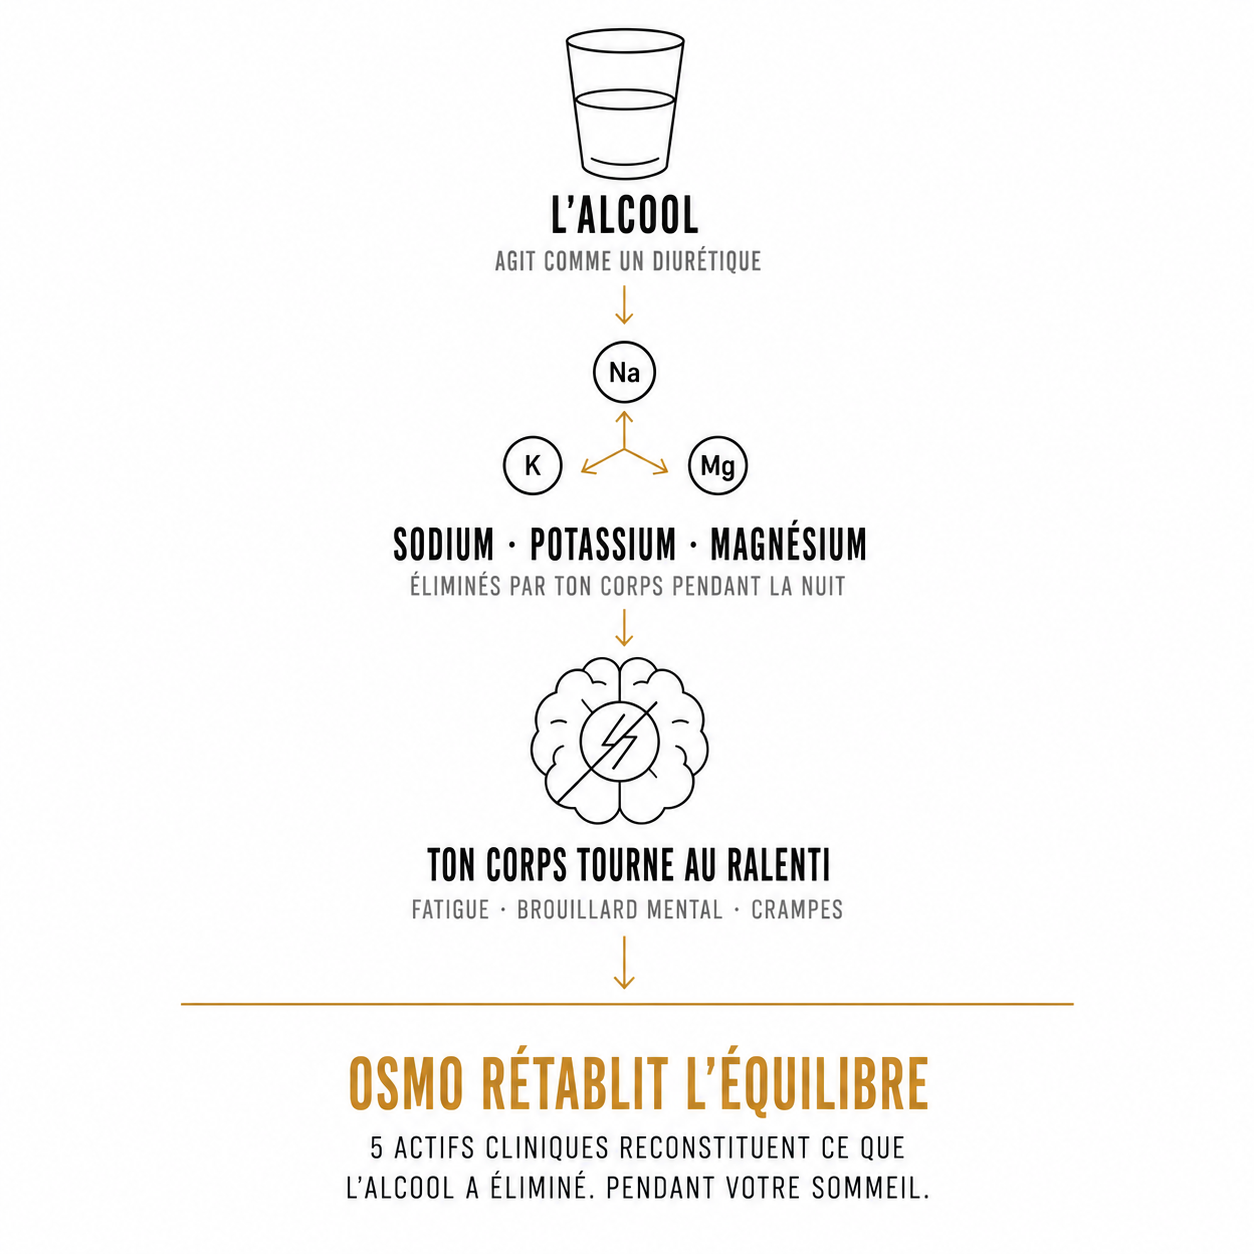
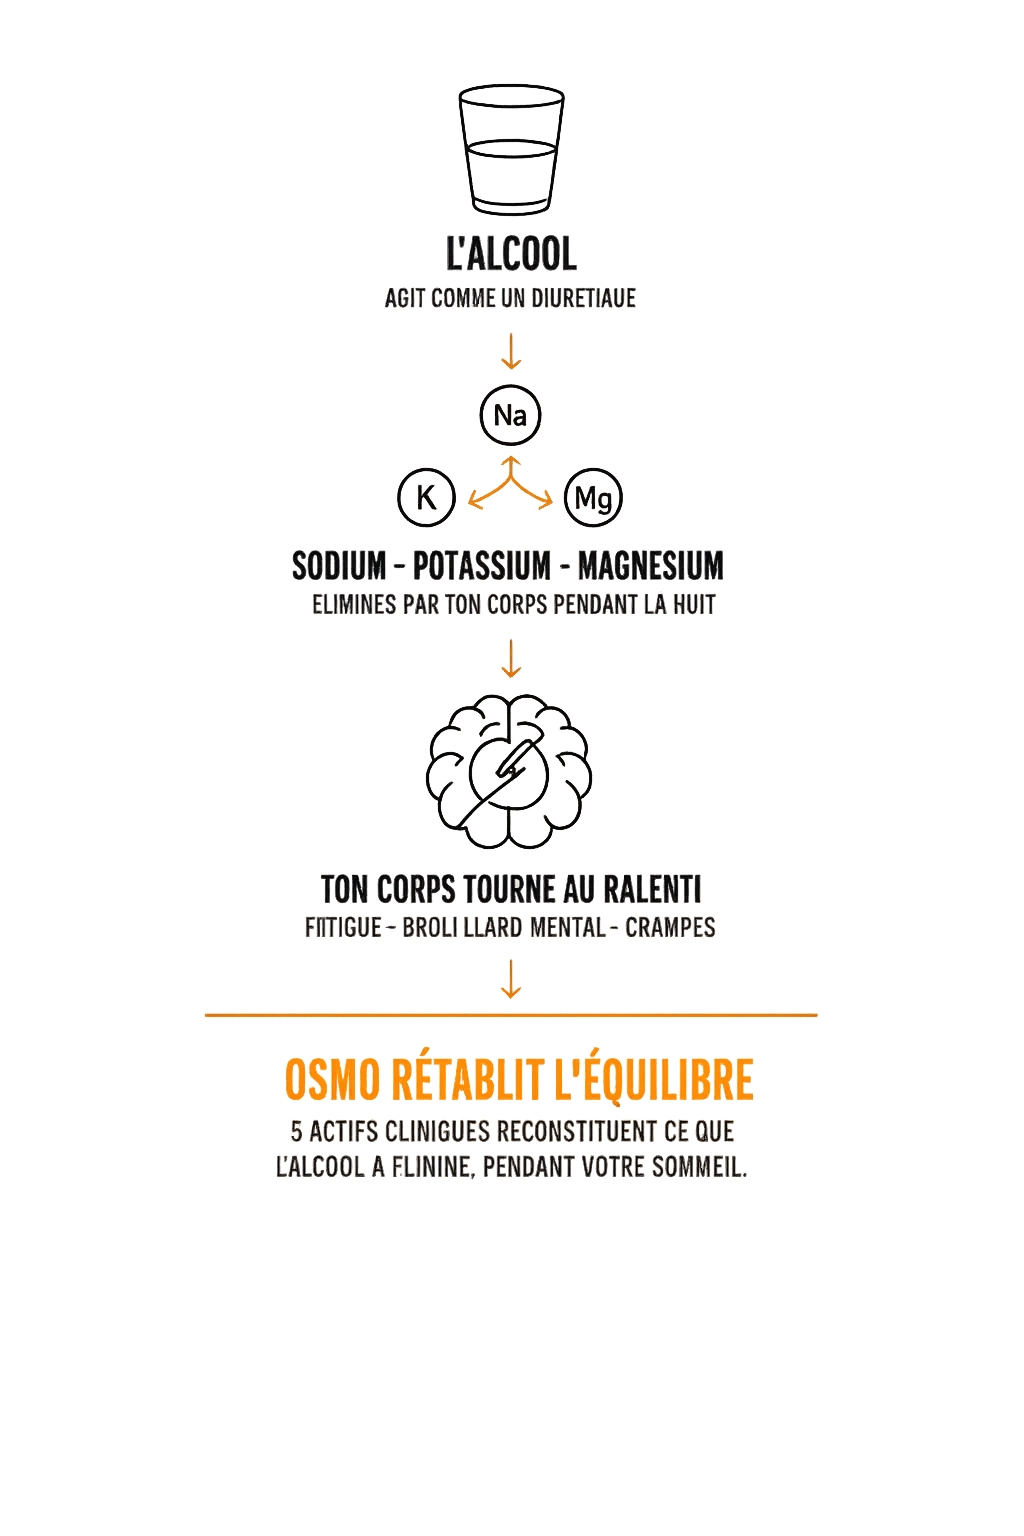
Update callout text and replace infographic with transparent version
- Callout 1: "Ce n'est pas dans ta tête — ton corps manque littéralement de carburant."
- New infographic PNG with transparent background (dark theme)

Changed region(s): [[0.1562, 0.0311, 0.8438, 0.8086], [0.2812, 0.8397, 0.75, 0.9641]]

diff --git a/osmo-site/src/components/sections/WhyYouSuffer.tsx b/osmo-site/src/components/sections/WhyYouSuffer.tsx
@@ -71,8 +71,8 @@ export default function WhyYouSuffer() {
                       color: "var(--ink)",
                     }}
                   >
-                    Ce que tu appelles gueule de bois,
-                    c&apos;est une déplétion électrolytique aiguë.
+                    Ce n&apos;est pas dans ta tête — ton corps manque
+                    littéralement de carburant.
                   </p>
                 </div>
 
